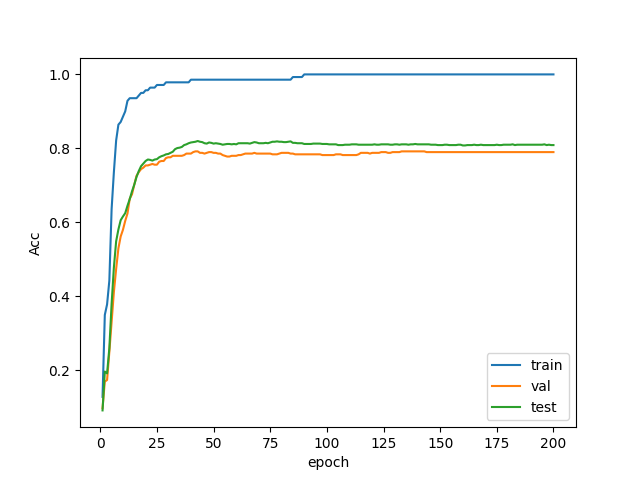
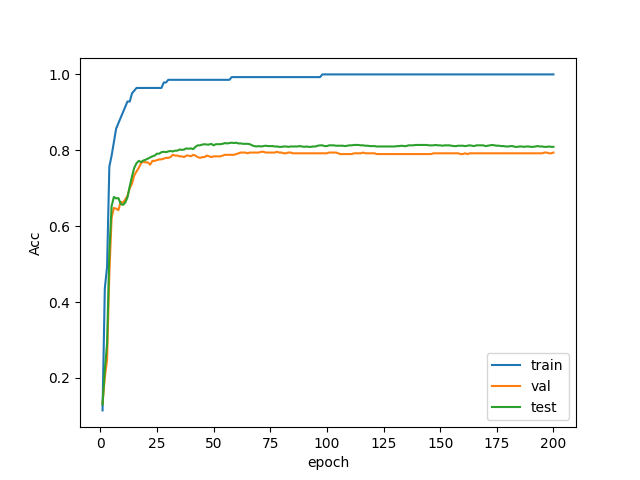
update gcn project and upload coradataset

diff --git a/Semi-GCN/main.py b/Semi-GCN/main.py
@@ -7,14 +7,16 @@ from func import drawPlot
 
 device = torch.device("cuda" if torch.cuda.is_available() else "cpu")
 
-def train(g,model,optimizer,loss_fn,epochs):
-    best_val_acc,best_test_acc = 0,0
+
+def train(g, model, optimizer, loss_fn, epochs):
+    best_val_acc, best_test_acc = 0, 0
     # gain features and labels of datasets
-    features,labels = g.ndata['feat'],g.ndata['label']
-    train_mask,val_mask,test_mask = g.ndata['train_mask'],g.ndata['val_mask'],g.ndata['test_mask']
-    train_acc_list,val_acc_list,test_acc_list = [],[],[]
+    features, labels = g.ndata['feat'], g.ndata['label']
+    train_mask, val_mask, test_mask = g.ndata['train_mask'], g.ndata[
+        'val_mask'], g.ndata['test_mask']
+    train_acc_list, val_acc_list, test_acc_list = [], [], []
     for e in range(epochs):
-        logits = model(g,features) # (N, label_nums)
+        logits = model(g, features)  # (N, label_nums)
         pred = logits.argmax(1)
         loss = loss_fn(logits[train_mask], labels[train_mask])
         # cal trian acc
@@ -24,24 +26,27 @@ def train(g,model,optimizer,loss_fn,epochs):
         # cal test acc
         test_acc = (pred[test_mask] == labels[test_mask]).float().mean()
 
-        train_acc_list.append(train_acc)
-        val_acc_list.append(val_acc)
-        test_acc_list.append(test_acc)
+        train_acc_list.append(train_acc.item())
+        val_acc_list.append(val_acc.item())
+        test_acc_list.append(test_acc.item())
 
         # save result based on valid dataset
         if best_val_acc < val_acc:
             best_val_acc = val_acc
             best_test_acc = test_acc
-        
+
         optimizer.zero_grad()
         loss.backward()
         optimizer.step()
 
         if (e + 1) % 5 == 0:
-            print('Epoch {}, loss: {:.3f}, train acc: {:.3f}, val acc: {:.3f} (best {:.3f}), test acc: {:.3f} (best {:.3f})'.format(
-                e + 1, loss, train_acc, val_acc, best_val_acc, test_acc, best_test_acc))
-        
-    drawPlot([train_acc_list,val_acc_list,test_acc_list],"accuracy.png","Acc",["train","val","test"])
+            print(
+                'Epoch {}, loss: {:.3f}, train acc: {:.3f}, val acc: {:.3f} (best {:.3f}), test acc: {:.3f} (best {:.3f})'
+                .format(e + 1, loss, train_acc, val_acc, best_val_acc,
+                        test_acc, best_test_acc))
+    drawPlot([train_acc_list, val_acc_list, test_acc_list], "accuracy.png",
+             "Acc", ["train", "val", "test"])
+
 
 if __name__ == "__main__":
     epochs = 200
@@ -49,7 +54,7 @@ if __name__ == "__main__":
     lr = 0.01
     weight_decay = 5e-4
     # download and loading dataset
-    dataset = dgl.data.CoraGraphDataset(raw_dir="../Datasets/")
+    dataset = dgl.data.CoraGraphDataset(raw_dir="../Datasets/DGL/")
     g = dataset[0]
     # add self-loop
     g = dgl.remove_self_loop(g)
@@ -61,18 +66,16 @@ if __name__ == "__main__":
     norm[torch.isinf(norm)] = 0
     g.ndata['norm'] = norm.unsqueeze(1)
 
-    model = GCNModel(
-        in_feats=g.ndata['feat'].shape[1],
-        h_feats=hidden_size,
-        num_classes=dataset.num_classes
-        )
-    
+    model = GCNModel(in_feats=g.ndata['feat'].shape[1],
+                     h_feats=hidden_size,
+                     num_classes=dataset.num_classes)
+
     if torch.cuda.is_available():
         g = g.to(device)
         model = model.to(device)
 
-    optimizer = optim.Adam(model.parameters(),lr=lr,weight_decay=weight_decay)
+    optimizer = optim.Adam(model.parameters(),
+                           lr=lr,
+                           weight_decay=weight_decay)
     loss_fn = nn.CrossEntropyLoss()
-    train(g,model,optimizer,loss_fn,epochs)
-    
-
+    train(g, model, optimizer, loss_fn, epochs)
